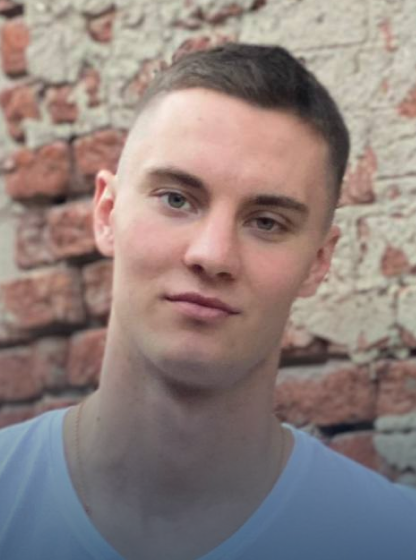
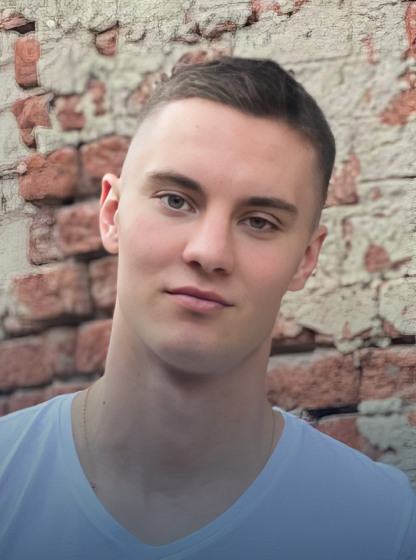
team photos fixed

diff --git a/src/Pages/MainPage/Sections/Team/Team.scss b/src/Pages/MainPage/Sections/Team/Team.scss
@@ -2,7 +2,7 @@
   --team-element-padding: 36px;
   --team-min-height: 730px;
   --team-carousel-item-height: 560px;
-  --team-carousel-item-padding: 18px;
+  --team-carousel-item-padding: 5px;
   --team-carousel-item-info-position: 20px;
   --team-worker-name-font-size: 24px;
   --team-worker-grade-font-size: inherit;
@@ -21,7 +21,7 @@
 
   &__info{
     grid-area: info;
-    width: 100%;
+    width: 95%;
     display: flex;
     flex-direction: column;
     max-height: var(--team-carousel-item-height);
